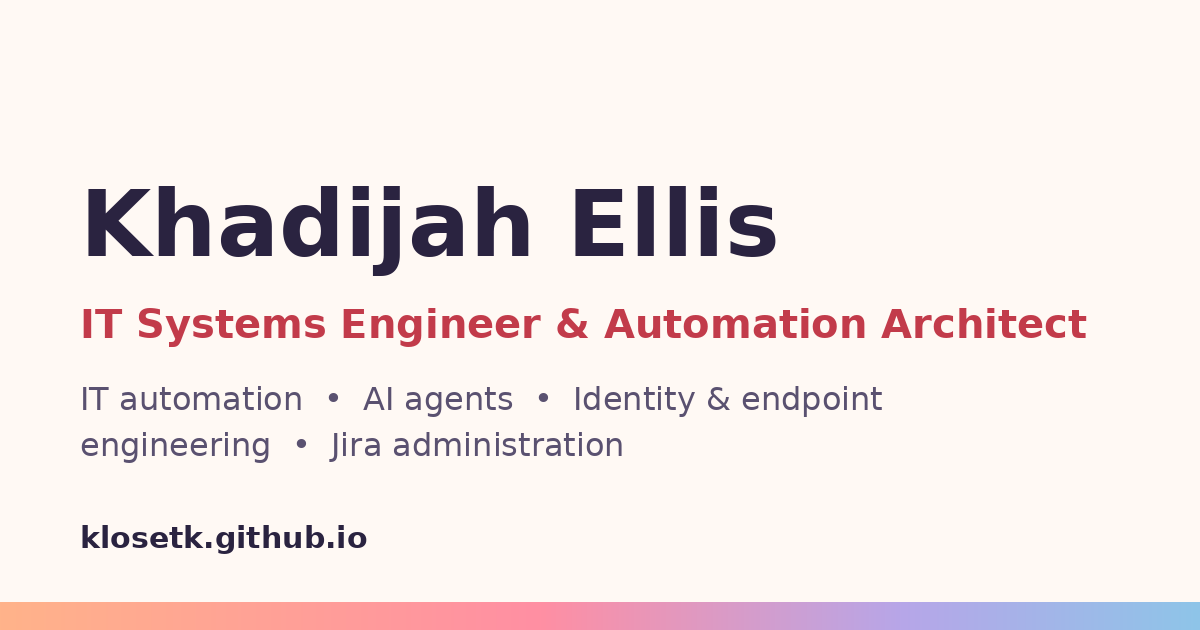
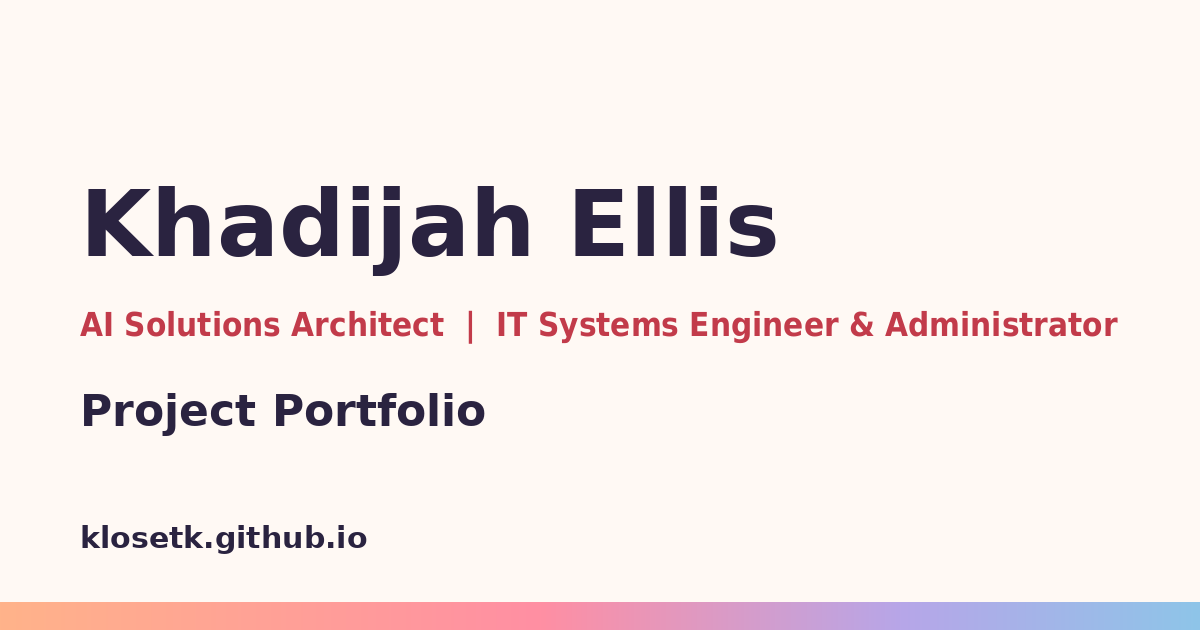
Update OG preview image text; bump cache-busting param
Claude-Session: https://claude.ai/code/session_01WTU2swcG6enuzwPBG1vaAu

Changed region(s): [[0.0617, 0.4825, 0.925, 0.5429], [0.0617, 0.6032, 0.5242, 0.7238], [0.4625, 0.6032, 0.74, 0.6635]]

diff --git a/index.html b/index.html
@@ -10,11 +10,11 @@
 <meta property="og:url" content="https://klosetk.github.io/">
 <meta property="og:title" content="Khadijah Ellis | IT Systems Engineer &amp; Automation Architect">
 <meta property="og:description" content="Portfolio of Khadijah Ellis: IT automation, AI agents, identity and endpoint engineering, and Jira administration.">
-<meta property="og:image" content="https://klosetk.github.io/og-image.png">
+<meta property="og:image" content="https://klosetk.github.io/og-image.png?v=2">
 <meta property="og:image:width" content="1200">
 <meta property="og:image:height" content="630">
 <meta name="twitter:card" content="summary_large_image">
-<meta name="twitter:image" content="https://klosetk.github.io/og-image.png">
+<meta name="twitter:image" content="https://klosetk.github.io/og-image.png?v=2">
 
 <style>
   :root {
